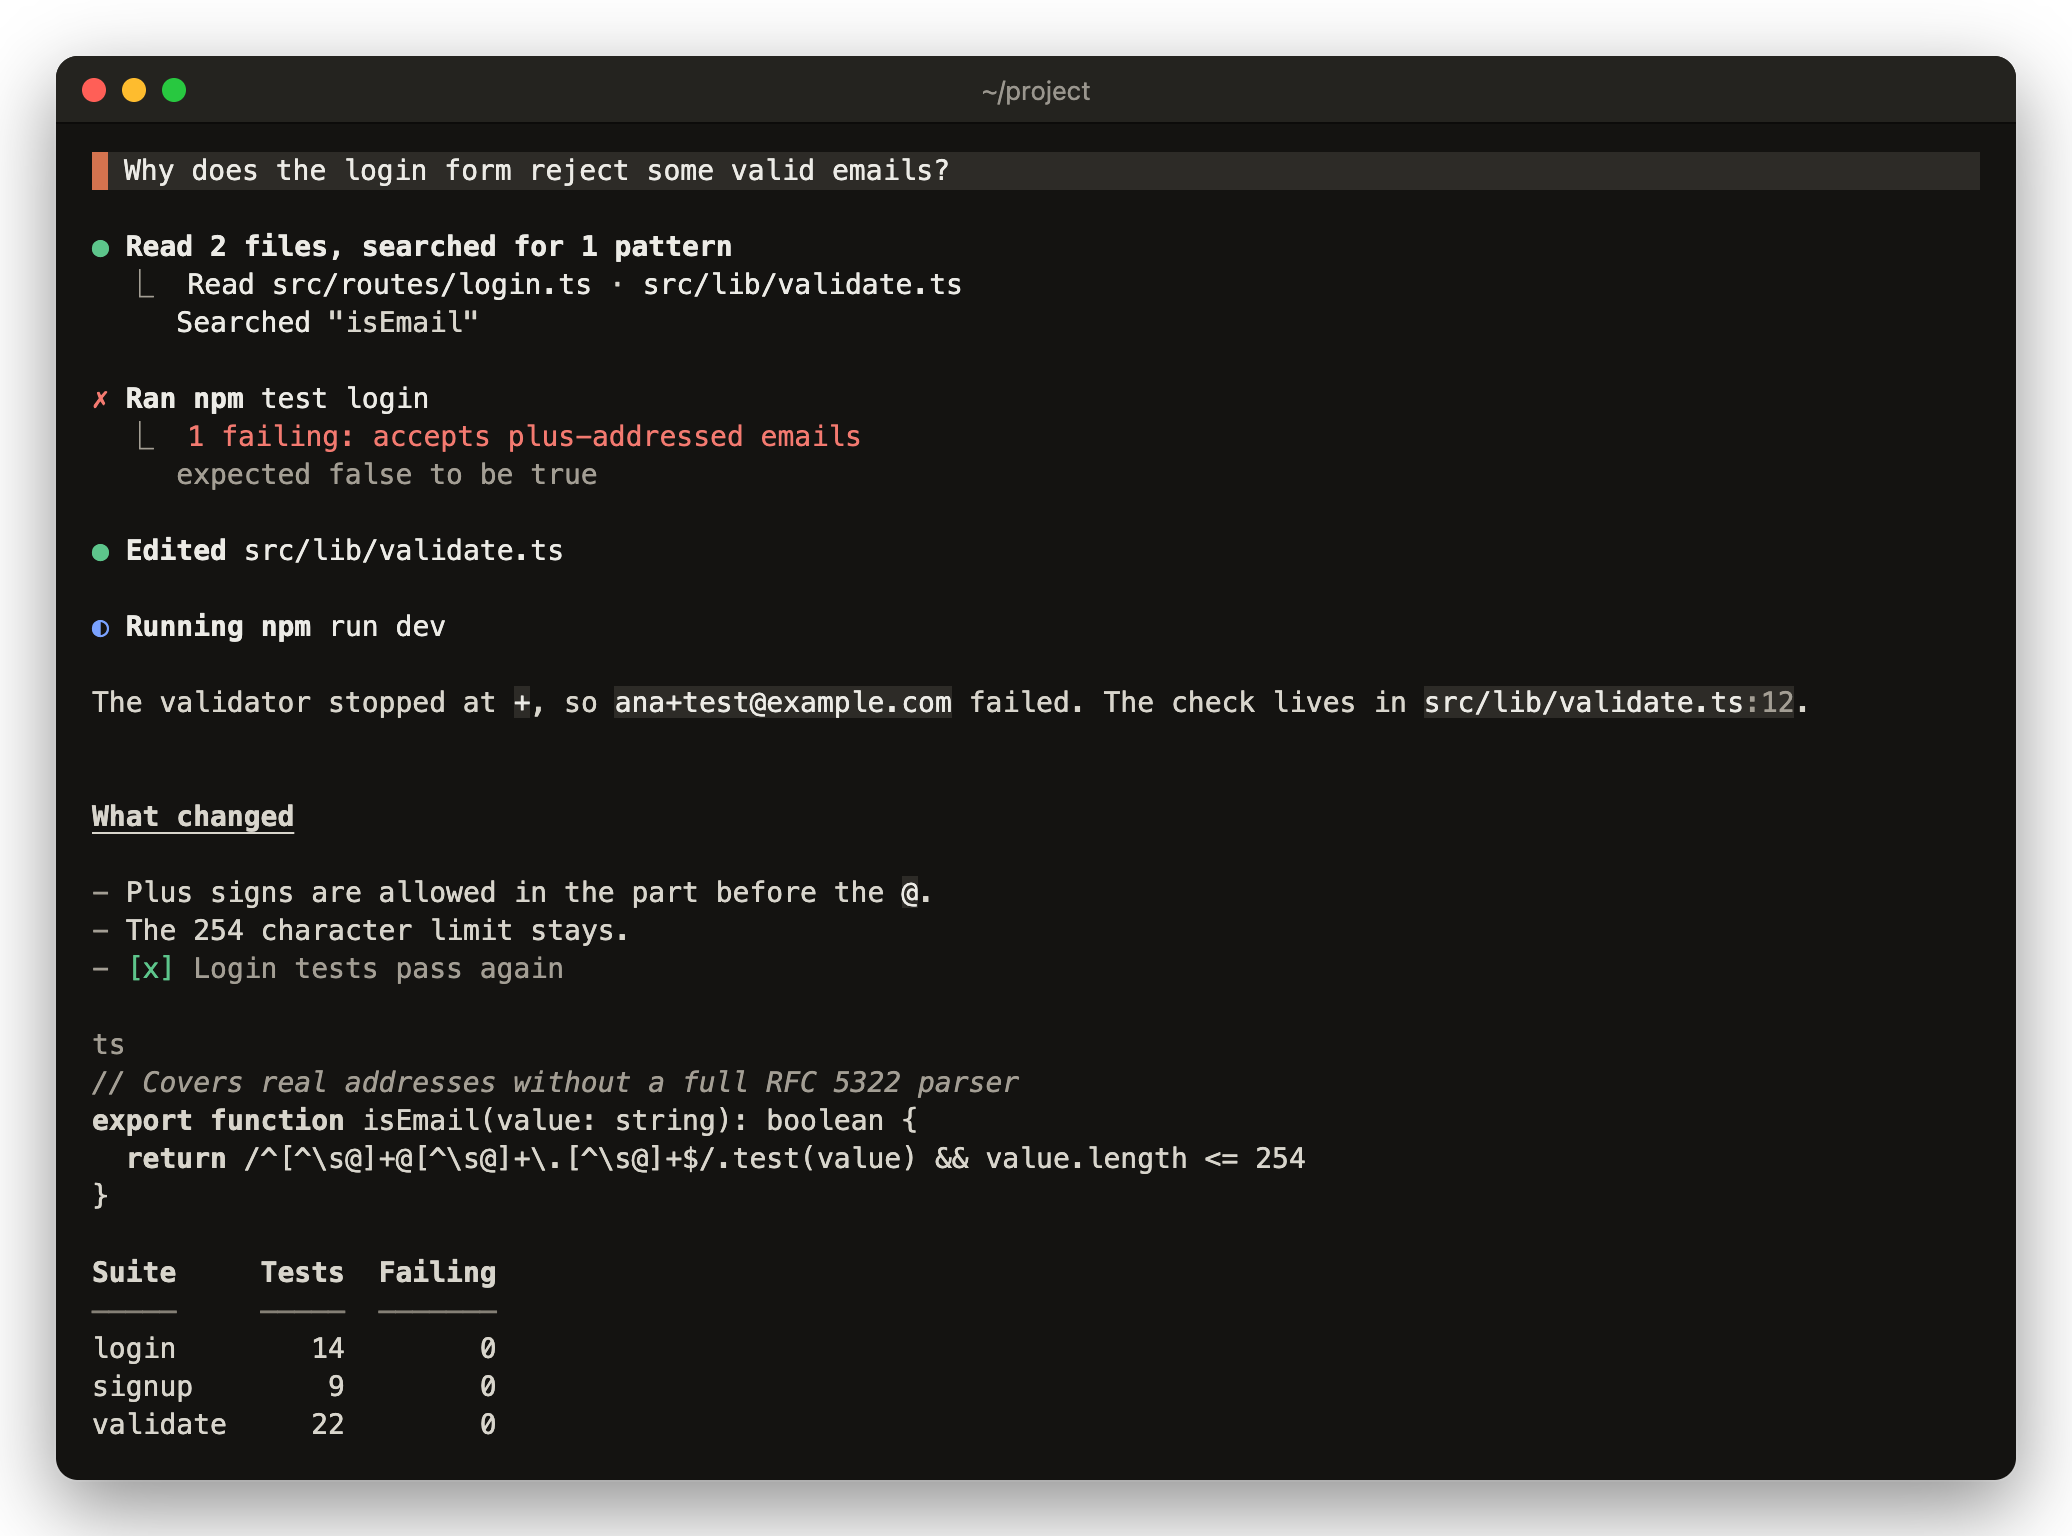
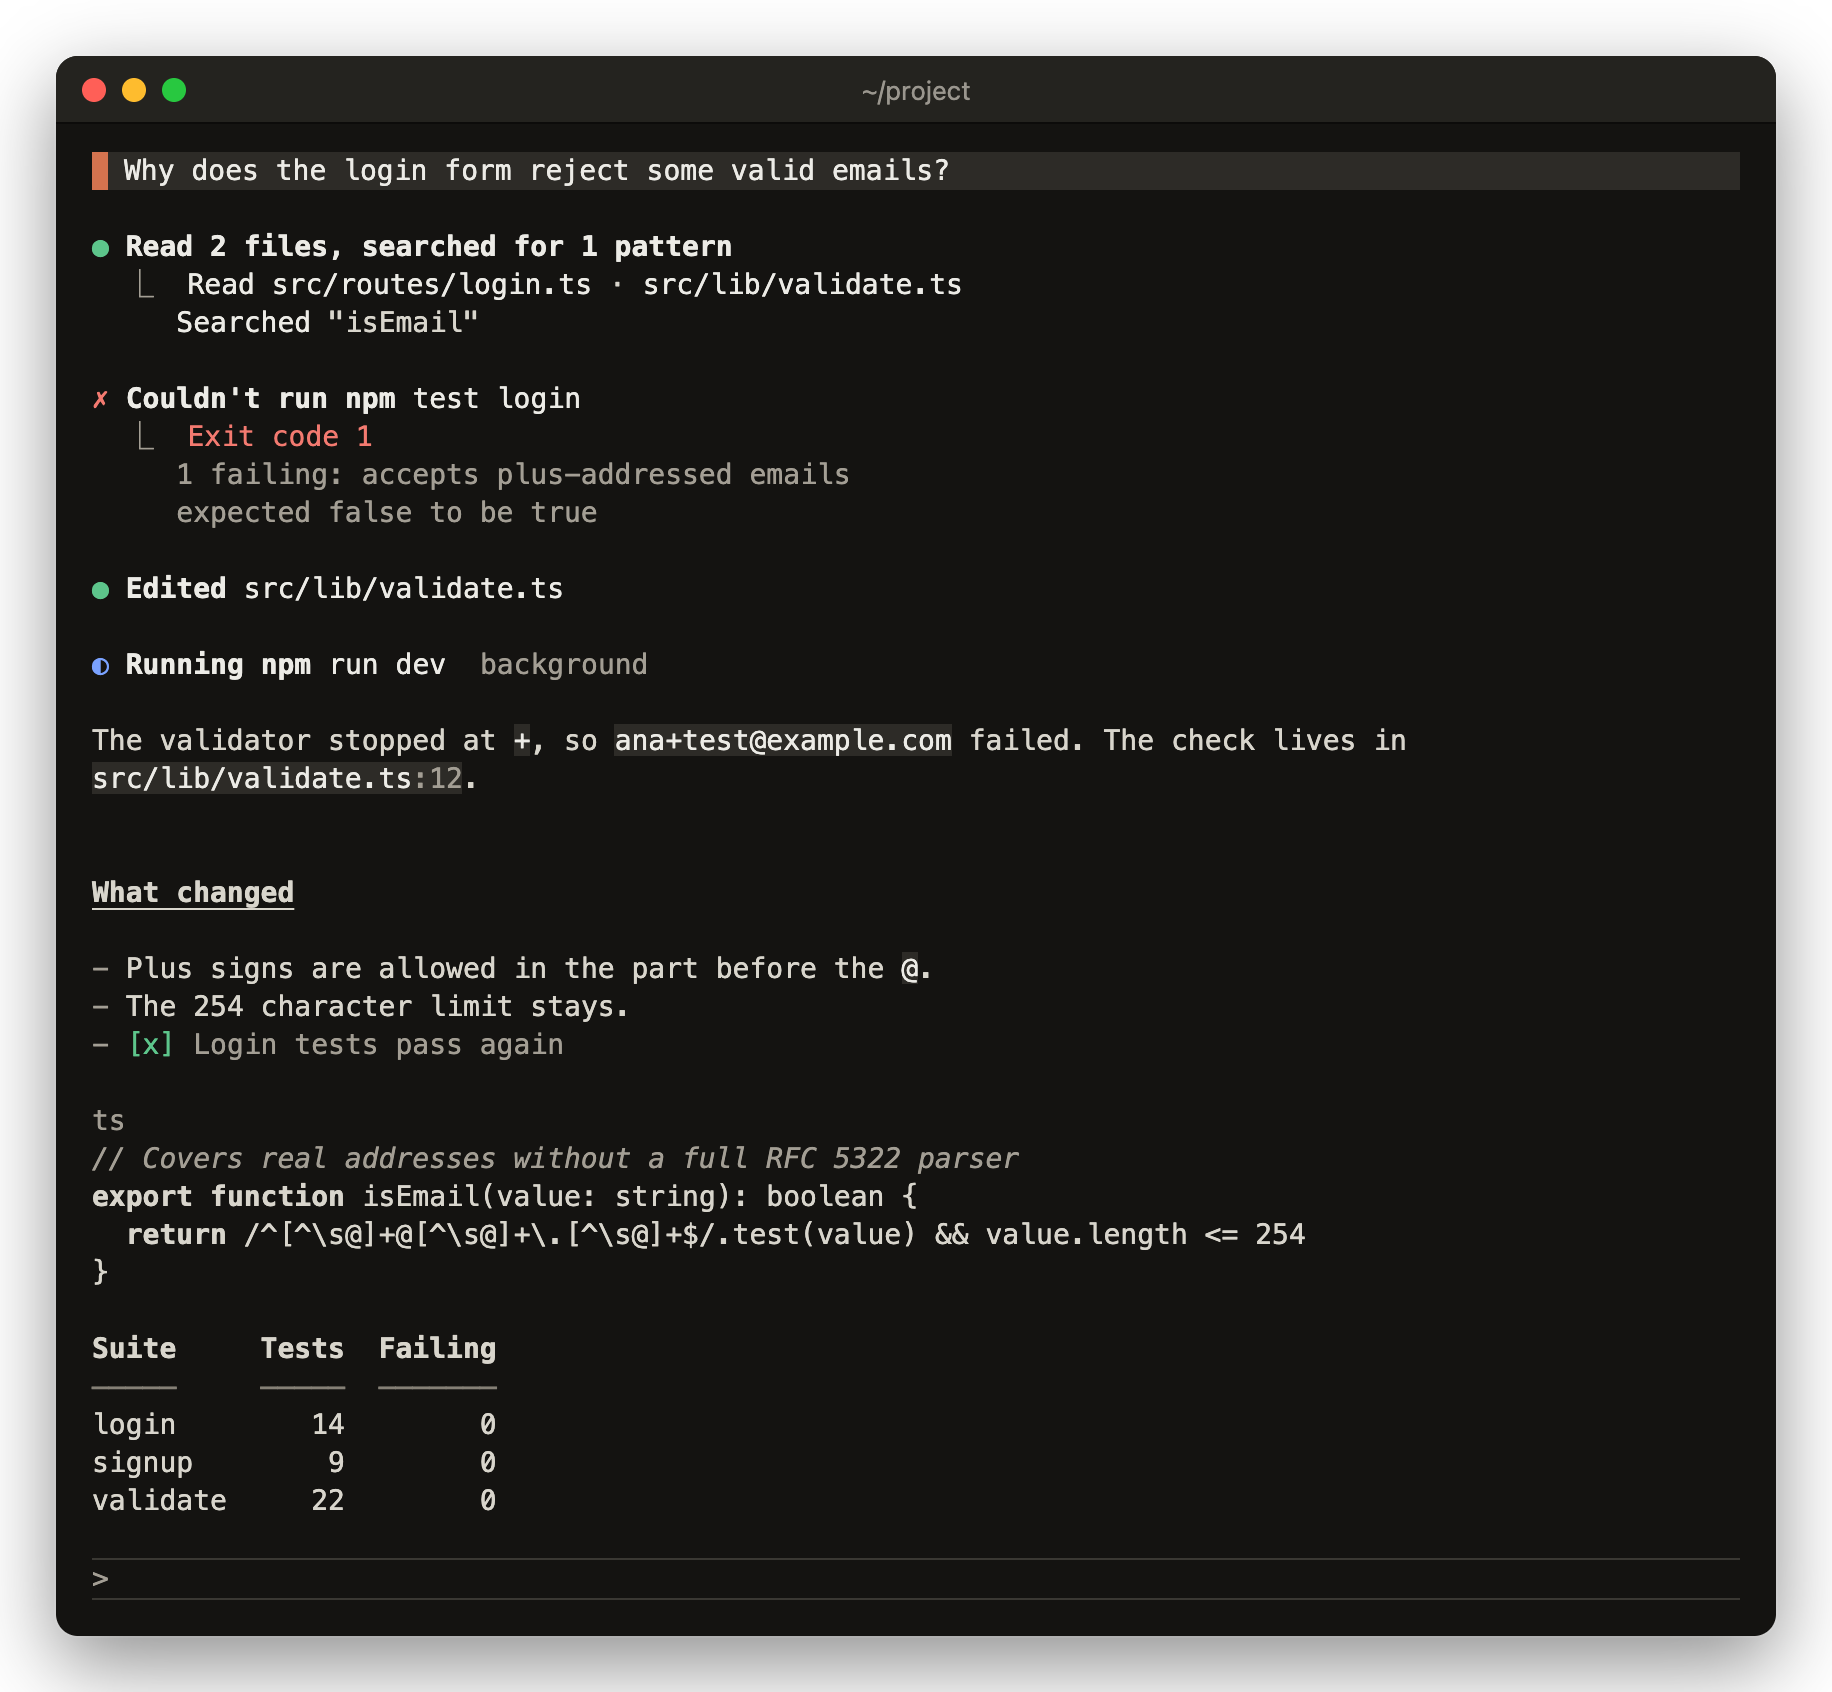
[Doc] Draw a failed run as Couldn't run and narrow the mocked window

Changed region(s): [[0.0, 0.0312, 0.9956, 0.9688], [0.6845, 0.7188, 0.7156, 0.75]]

diff --git a/docs/screens/src/lucid.html b/docs/screens/src/lucid.html
@@ -10,15 +10,17 @@
 <div class="l"><span class="m">  ⎿  </span><span class="s">Read</span> <span class="s">src/routes/login.ts</span><span class="t"> · </span><span class="s">src/lib/validate.ts</span></div>
 <div class="l">     <span class="s">Searched</span> <span class="t">"isEmail"</span></div>
 <div class="gap"></div>
-<div class="l"><span class="err">✗</span> <span class="s b">Ran</span> <span class="s b">npm</span> <span class="s">test</span> <span class="s">login</span></div>
-<div class="l"><span class="m">  ⎿  </span><span class="err">1 failing: accepts plus-addressed emails</span></div>
+<div class="l"><span class="err">✗</span> <span class="s b">Couldn't run</span> <span class="s b">npm</span> <span class="s">test</span> <span class="s">login</span></div>
+<div class="l"><span class="m">  ⎿  </span><span class="err">Exit code 1</span></div>
+<div class="l"><span class="m">     1 failing: accepts plus-addressed emails</span></div>
 <div class="l"><span class="m">     expected false to be true</span></div>
 <div class="gap"></div>
 <div class="l"><span class="ok">●</span> <span class="s b">Edited</span> <span class="s">src/lib/validate.ts</span></div>
 <div class="gap"></div>
-<div class="l"><span class="p">◐</span> <span class="s b">Running</span> <span class="s b">npm</span> <span class="s">run</span> <span class="s">dev</span></div>
+<div class="l"><span class="p">◐</span> <span class="s b">Running</span> <span class="s b">npm</span> <span class="s">run</span> <span class="s">dev</span><span class="m">  background</span></div>
 <div class="gap"></div>
-<div class="l">The validator stopped at <span class="chip">+</span>, so <span class="chip">ana+test@example.com</span> failed. The check lives in <span class="chip">src/lib/validate.ts<span class="m">:12</span></span>.</div>
+<div class="l">The validator stopped at <span class="chip">+</span>, so <span class="chip">ana+test@example.com</span> failed. The check lives in</div>
+<div class="l"><span class="chip">src/lib/validate.ts<span class="m">:12</span></span>.</div>
 <div class="gap"></div>
 <div class="gap"></div>
 <div class="l"><span class="t b u">What changed</span></div>
@@ -38,6 +40,8 @@
 <div class="l">login        14        0</div>
 <div class="l">signup        9        0</div>
 <div class="l">validate     22        0</div>
+<div class="gap"></div>
+<div class="input"><div class="l"><span class="m">&gt;</span> </div></div>
 </div>
 </div>
 </body></html>

diff --git a/docs/screens/src/terminal.css b/docs/screens/src/terminal.css
@@ -15,7 +15,7 @@
 html, body { background: transparent; }
 body { padding: 28px; width: fit-content; }
 .win {
-  width: 980px;
+  width: 860px;
   border-radius: 11px;
   overflow: hidden;
   background: var(--ground);
@@ -62,3 +62,6 @@ body { padding: 28px; width: fit-content; }
 .prompt { display: flex; background: var(--panel); color: var(--strong); }
 .prompt .edge { width: 8px; flex: none; background: var(--accent); }
 .prompt .body { padding: 0 8px; }
+.input { border-top: 1px solid #3a3833; border-bottom: 1px solid #3a3833; }
+.sym { font-family: "Apple Symbols", Menlo, monospace; font-size: 17px; display: inline-block; width: 8.43px; text-align: center; line-height: 19px; }
+.ptr { position: absolute; width: 13px; height: 19px; pointer-events: none; }
